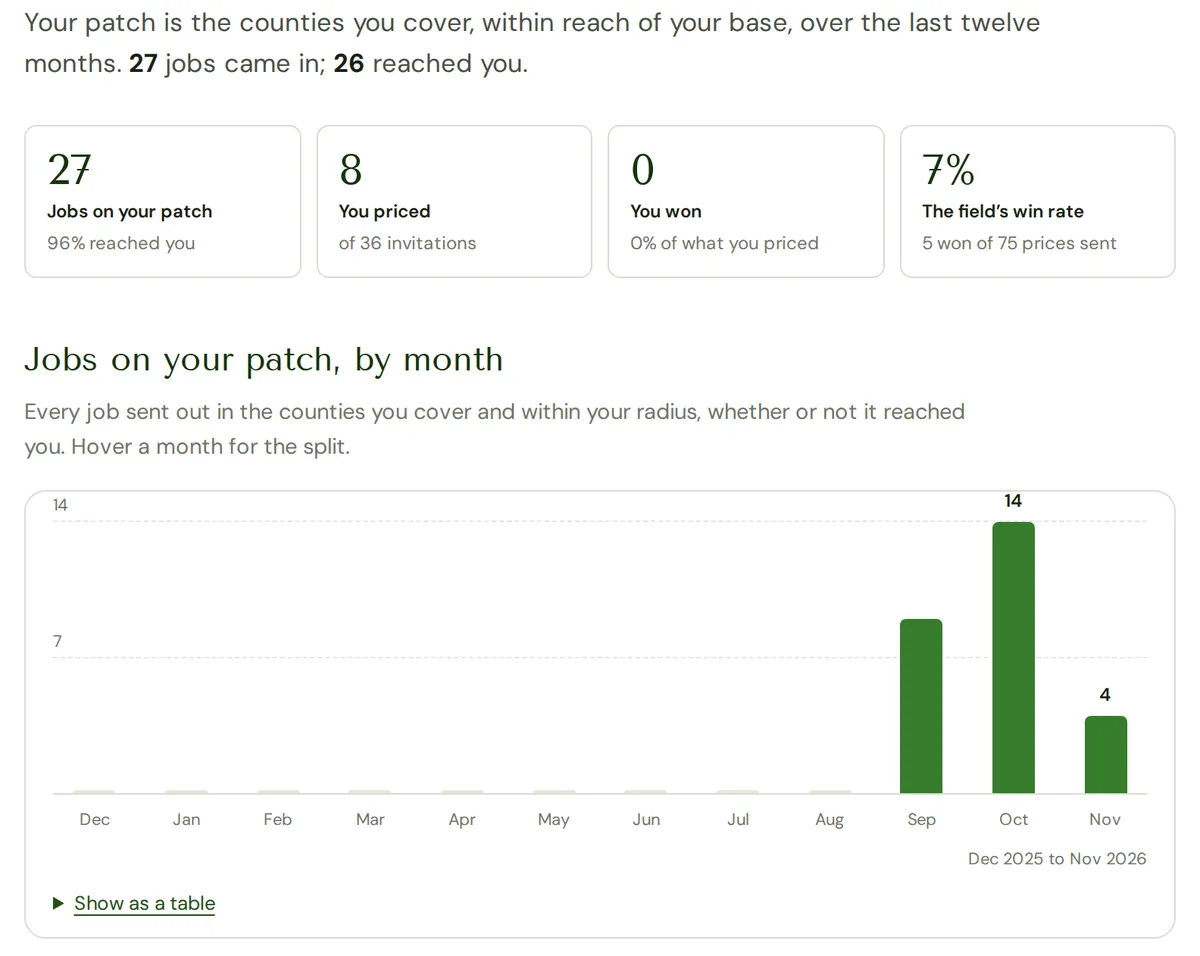
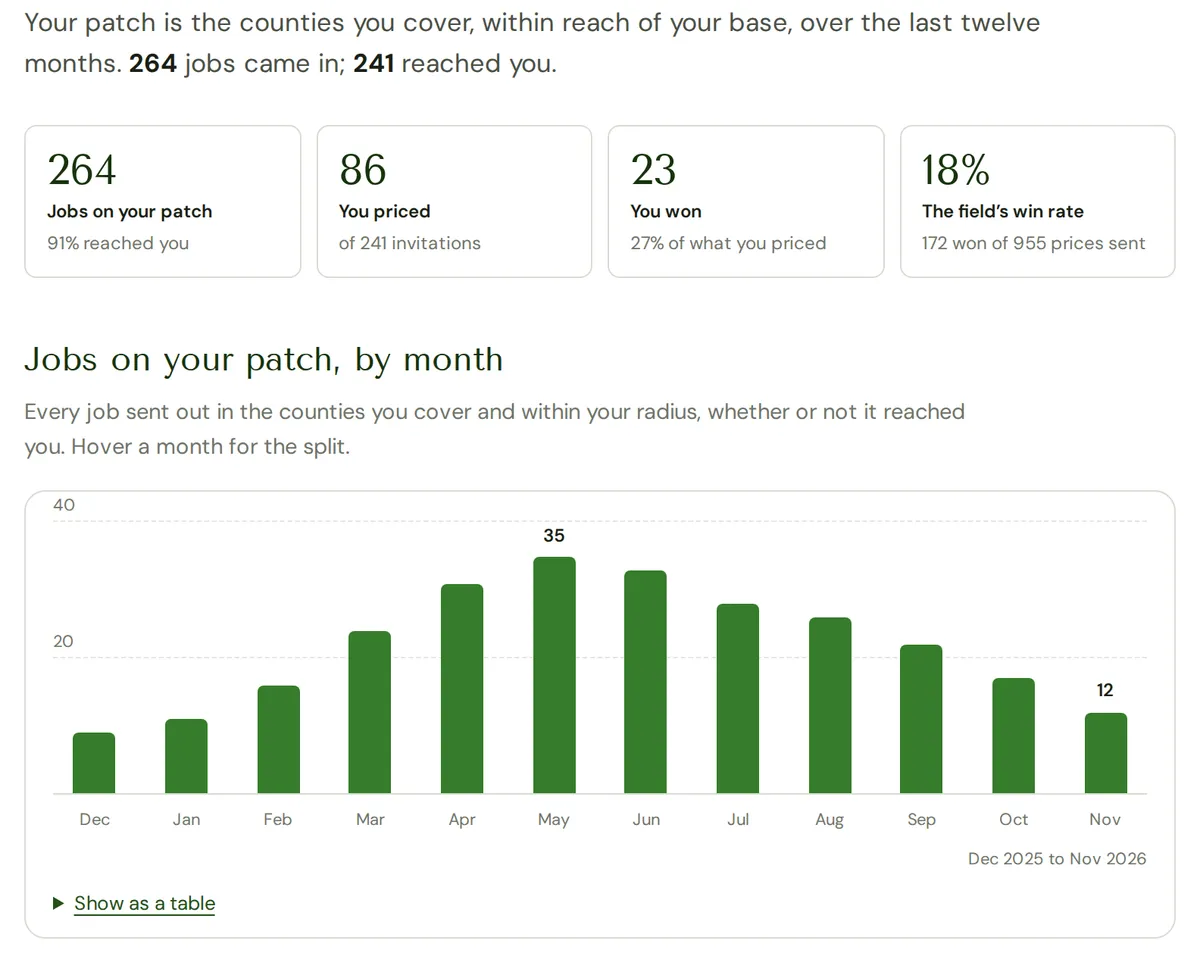
Market data example: illustrative figures, captioned as such
Claude-Session: https://claude.ai/code/session_014dLn2vHagKnDLXSBQWtGh3

diff --git a/src/components/membership/FeaturePreview.tsx b/src/components/membership/FeaturePreview.tsx
@@ -6,7 +6,9 @@ import s from './featurePreview.module.css';
  * it yet, so the pitch below it is about something they have seen. The
  * captures are Hampshire Paddock Management's own view (our test account),
  * cropped so they show what the page is like without giving away the paid
- * part (market data stops before the price table). Retake them with the
+ * part (market data stops before the price table). The market capture
+ * carries illustrative figures set in the browser before capture (the real
+ * network was three months old), and its caption says so. Retake with the
  * membership switch on /account when the page changes.
  */
 export function FeaturePreview({ image, alt, caption }: { image: StaticImageData; alt: string; caption: string }) {

diff --git a/src/app/(frontend)/account/market/page.tsx b/src/app/(frontend)/account/market/page.tsx
@@ -134,7 +134,7 @@ export default async function MarketDataPage() {
               <FeaturePreview
                 image={marketExample}
                 alt="Example of the Market data page: jobs on your patch, prices sent and won, a month-by-month chart of jobs, and the typical price for each kind of work."
-                caption="What a Premium member sees: their own patch in numbers, updated as jobs come in."
+                caption="Illustrative figures: how a Premium member’s patch looks in numbers, updated as jobs come in."
               />
               {app ? (
                 <div className={s.pitch}>
